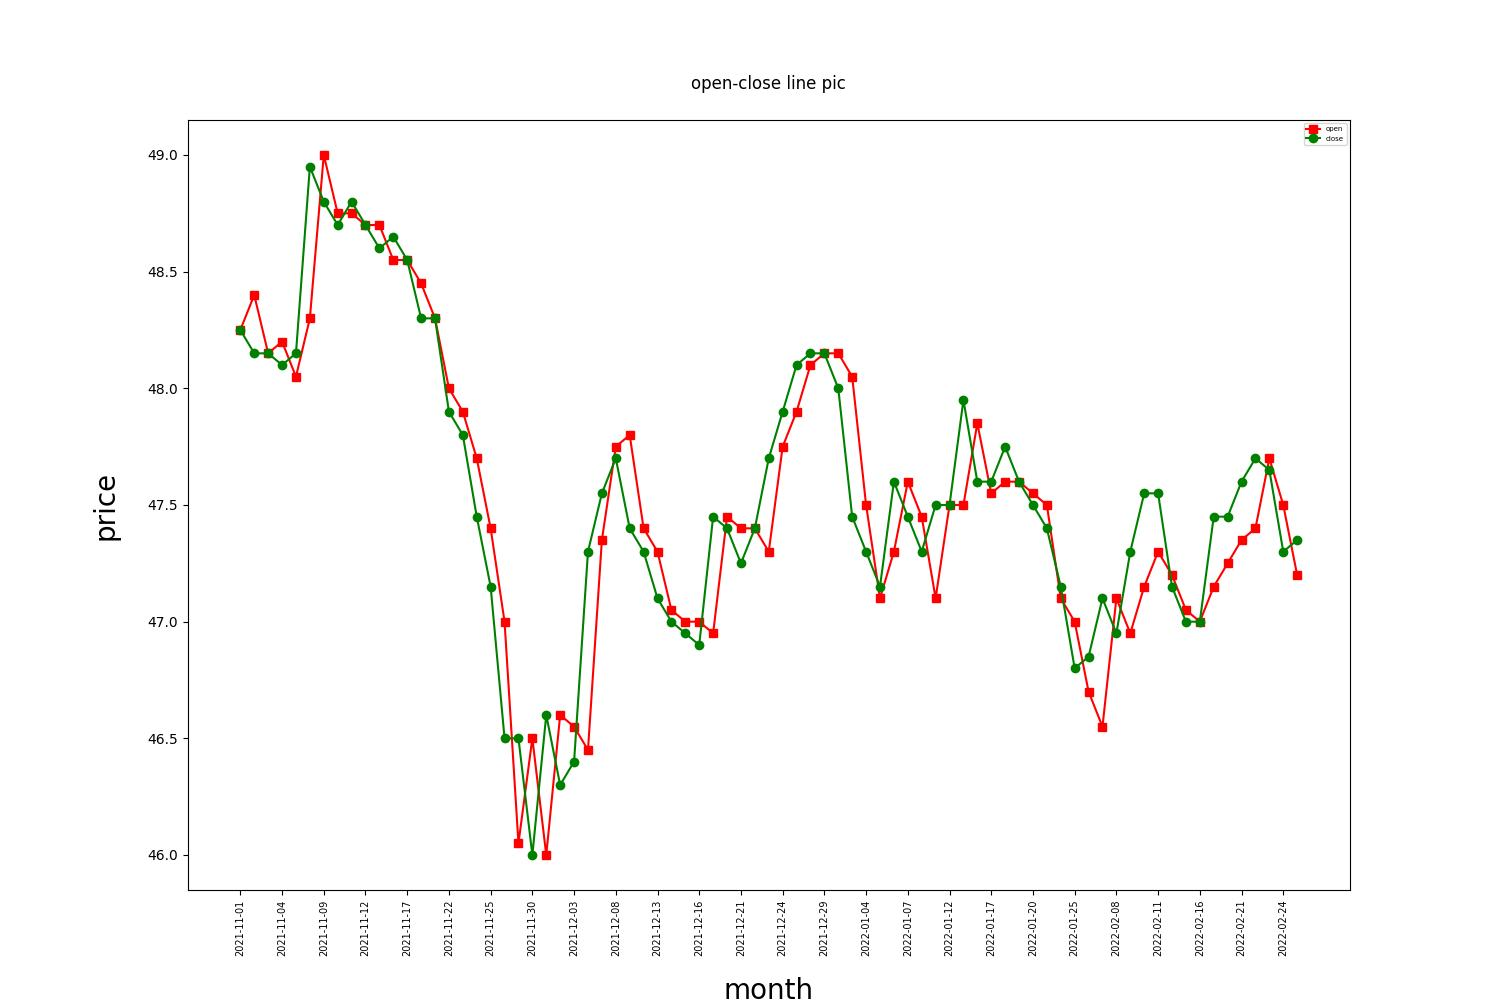
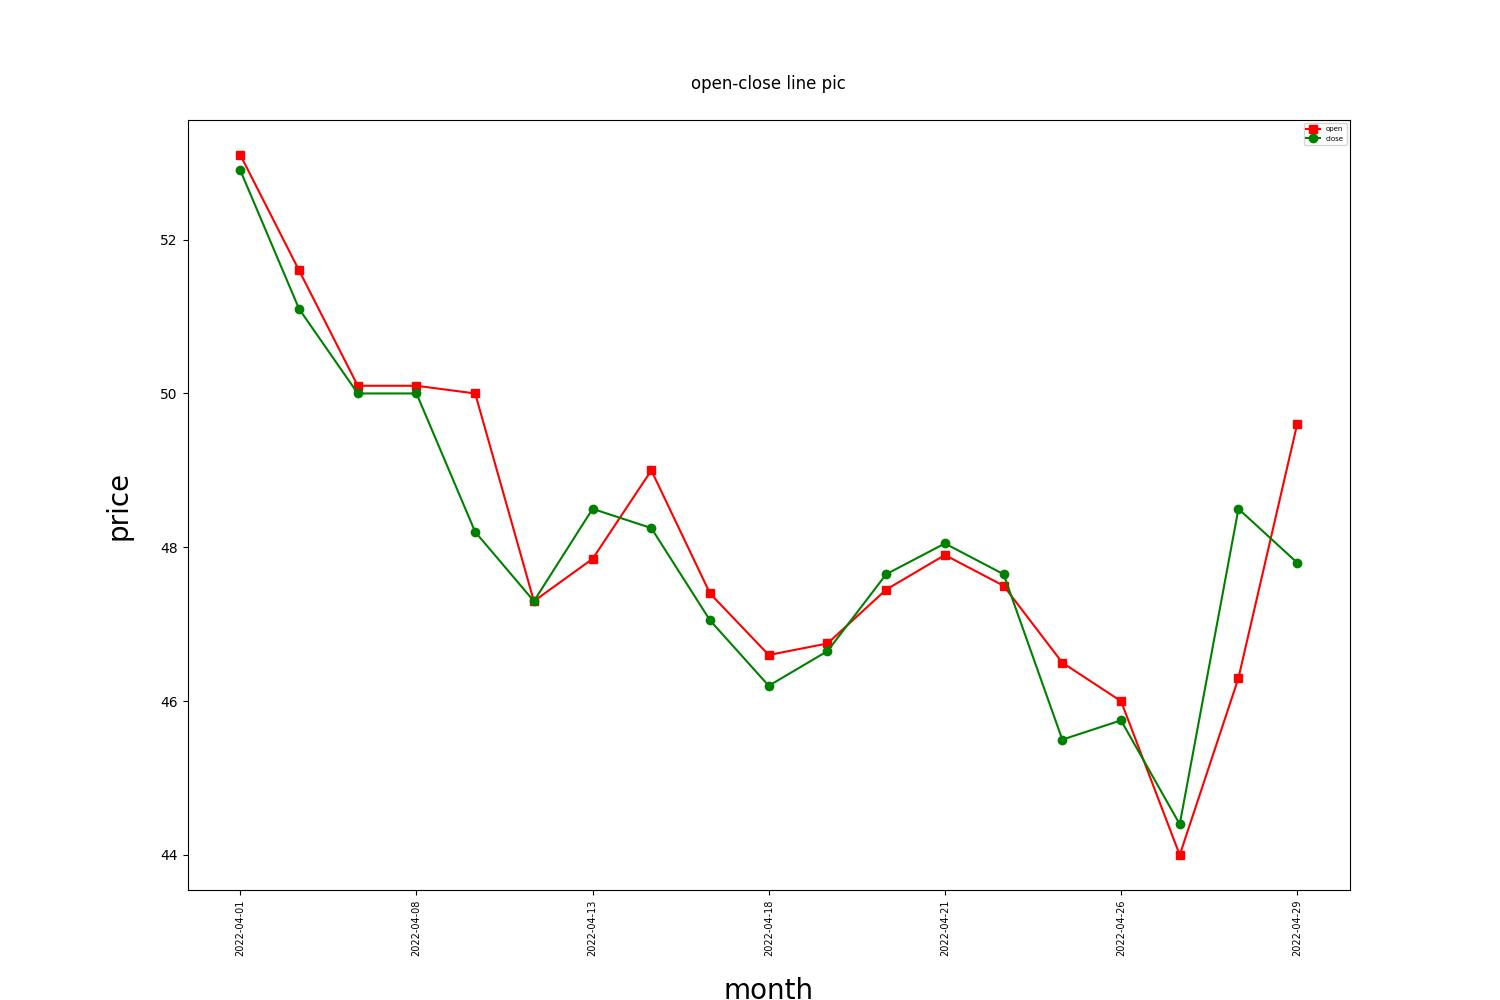
FIX/K線圖顯示正常
k線圖新增timestamp
js新增sleep()
info.html 改其中一支股票(公司倒閉)

diff --git a/django/sample/static/js/chart.js b/django/sample/static/js/chart.js
@@ -1,15 +1,16 @@
 const search_bar_btn = document.getElementById('search_bar_btn');
+var time = Date.now();
 
 search_bar_btn.addEventListener('click', function () {
   let search_bar_input = get_input()[0];
   let begin_date = get_input()[1];
   let end_date = get_input()[2];
-  
+
   if(search_bar_input != '' & begin_date != '' & end_date != ''){ //避免空值error
         console.log('begin_date='+begin_date + ', end_date=' + end_date);
         console.log("suscces")
         send_data();
-        set_chart('trend.jpg', time+'kline.jpg'); //這裡輸入圖表檔名
+        set_chart('trend.jpg', time+'_kline.jpg'); //這裡輸入圖表檔名
     }
     // reload();
   }, true);
@@ -26,6 +27,7 @@ function get_input() {
     }
 
 function set_chart(chart_1, chart_2) {
+        sleep(1000);
         document.getElementById("chart_1").src = "../static/" + chart_1;
         document.getElementById("chart_2").src = "../static/" + chart_2;
     }
@@ -34,37 +36,46 @@ function send_data() {
         var xhr;
         if (window.XMLHttpRequest) { //檢查瀏覽器的XMLHttpRequest屬性，如果為真則支持XMLHttpRequest
           // IE7+, Firefox, Chrome, Opera, Safari 瀏覽器執行代碼
-          xhr=new XMLHttpRequest(); 
+          xhr=new XMLHttpRequest();
         } else {
           // IE6, IE5 瀏覽器執行代碼
-          xhr=new ActiveXObject("Microsoft.XMLHTTP"); 
+          xhr=new ActiveXObject("Microsoft.XMLHTTP");
         }
-     
+
       /*
-        xhr.open(get,url,async);  
+        xhr.open(get,url,async);
         send(string);  //post請求時才使用字符串參數，否則不用帶參數。
-    
+
         method：請求的類型，常見的get或post方法
         url：向伺服器請求的地址
         async：true（異步）或 false（同步）,默認為true異步
       */
-    
+
       // get方式：
       let data = get_input();
-      xhr.open('GET', location + '?input_num=' + data[0] + '&begin_date='+ data[1] + '&end_date=' + data[2] + '&t=' + Date.now());
+      time = Date.now();
+      xhr.open('GET', location + '?input_num=' + data[0] + '&begin_date='+ data[1] + '&end_date=' + data[2] + '&t=' + time);
       // via Cache-Control header:
       xhr.setRequestHeader("Cache-Control", "no-cache");
       xhr.send();
-    
+
       // POST方式
       // xhr.open('POST', "/articles/" + article_id + "/likes/");
       // xhr.setRequestHeader("Content-type", "application/x-www-form-urlencoded; charset=utf-8"); //必須寫在open和send中間
-    
+
       // xhr.send("key=value&key2=value2");
-          
+
       /*
       注意：
       1) post請求一定要設置請求頭的格式內容;
       2) post請求參數放在send裡面，即請求體.
       */
+    }
+
+    function sleep(milliseconds)
+    {
+    var start = new Date().getTime();
+    while(1)
+        if ((new Date().getTime() - start) > milliseconds)
+              break;
     }

diff --git a/django/sample/templates/info.html b/django/sample/templates/info.html
@@ -52,7 +52,7 @@
                                 <li>1102 亞泥</li>
                                 <li>2002 中鋼</li>
                                 <li>2412 中華電</li>
-                                <li>2328 廣宇</li>
+                                <li>2303 聯電</li>
                                 <li>5880 合庫金</li>
                                 <li>2892 第一金</li>
                             </ul>

diff --git a/django/sample/sampleApp/views.py b/django/sample/sampleApp/views.py
@@ -69,13 +69,13 @@ def open_close_pic(input_num, begin_time, end_time, time):
             plt.plot(month,open,'s-',color = 'r', label="open")
             plt.plot(month,close,'o-',color = 'g', label="close")
             fileTrend = '../sample/static/trend.jpg'
-           
+
             if(os.path.isfile(fileTrend)):
                 os.remove(fileTrend)
                 print('exist')
             else:
                 print('not exist')
-            
+
             # 設定圖片標題，以及指定字型設定，x代表與圖案最左側的距離，y代表與圖片的距離
             plt.title("open-close line pic", x=0.5, y=1.03)
             plt.xticks(fontsize=7)
@@ -113,7 +113,7 @@ def open_close_pic(input_num, begin_time, end_time, time):
                 print('exist')
             else:
                 print('not exist')
-            figure.write_image("../sample/static/"+time+"_kline.jpg", width=1500, height=1000)
+            figure.write_image("../sample/static/"+ str(time)+"_kline.jpg", width=1500, height=1000)
             # plt.savefig('../sample/static/kline.jpg')
             # figure.show()
 
@@ -127,7 +127,7 @@ def chart(request):
     input_num = request.GET.get('input_num')
     begin_date = request.GET.get('begin_date')
     end_date = request.GET.get('end_date')
-    time = request.GET.get('t')   
+    time = request.GET.get('t')
 
     if(type(input_num) != 'NoneType' and type(begin_date) != 'NoneType' and type(end_date) != 'NoneType'):
         print('input_num:', input_num, ', begin_date:', begin_date, ', end_date:', end_date,', t:', time)
